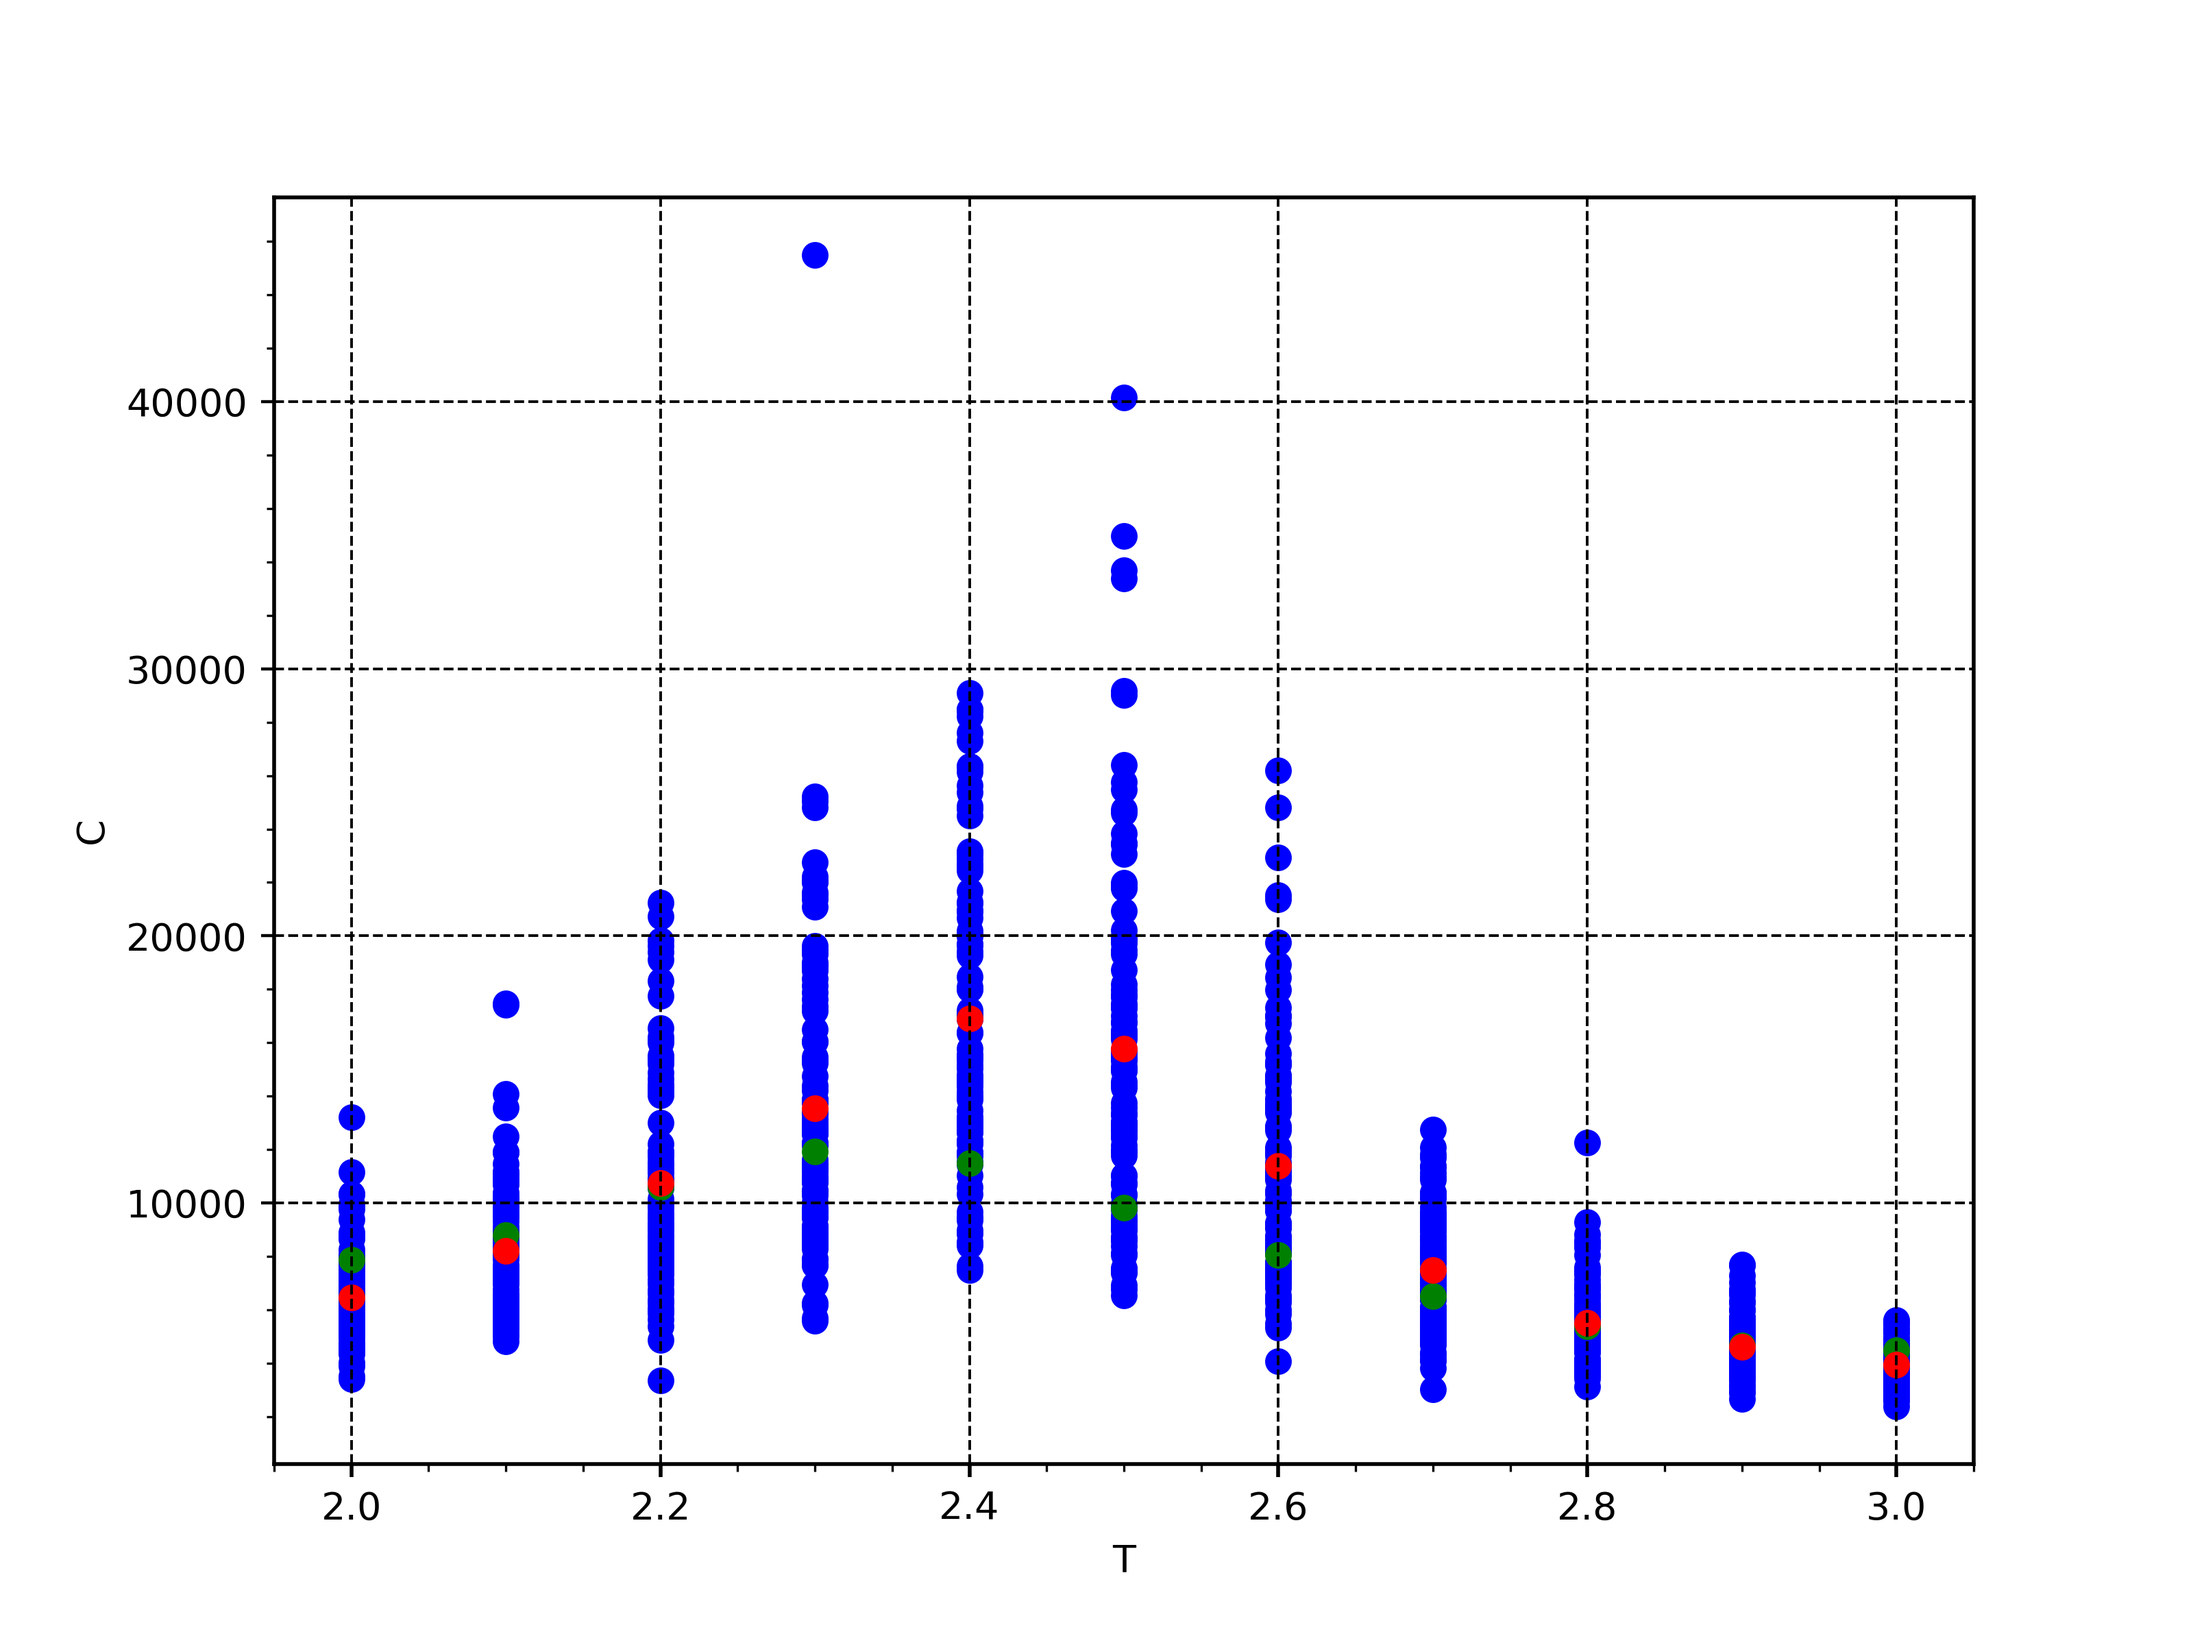
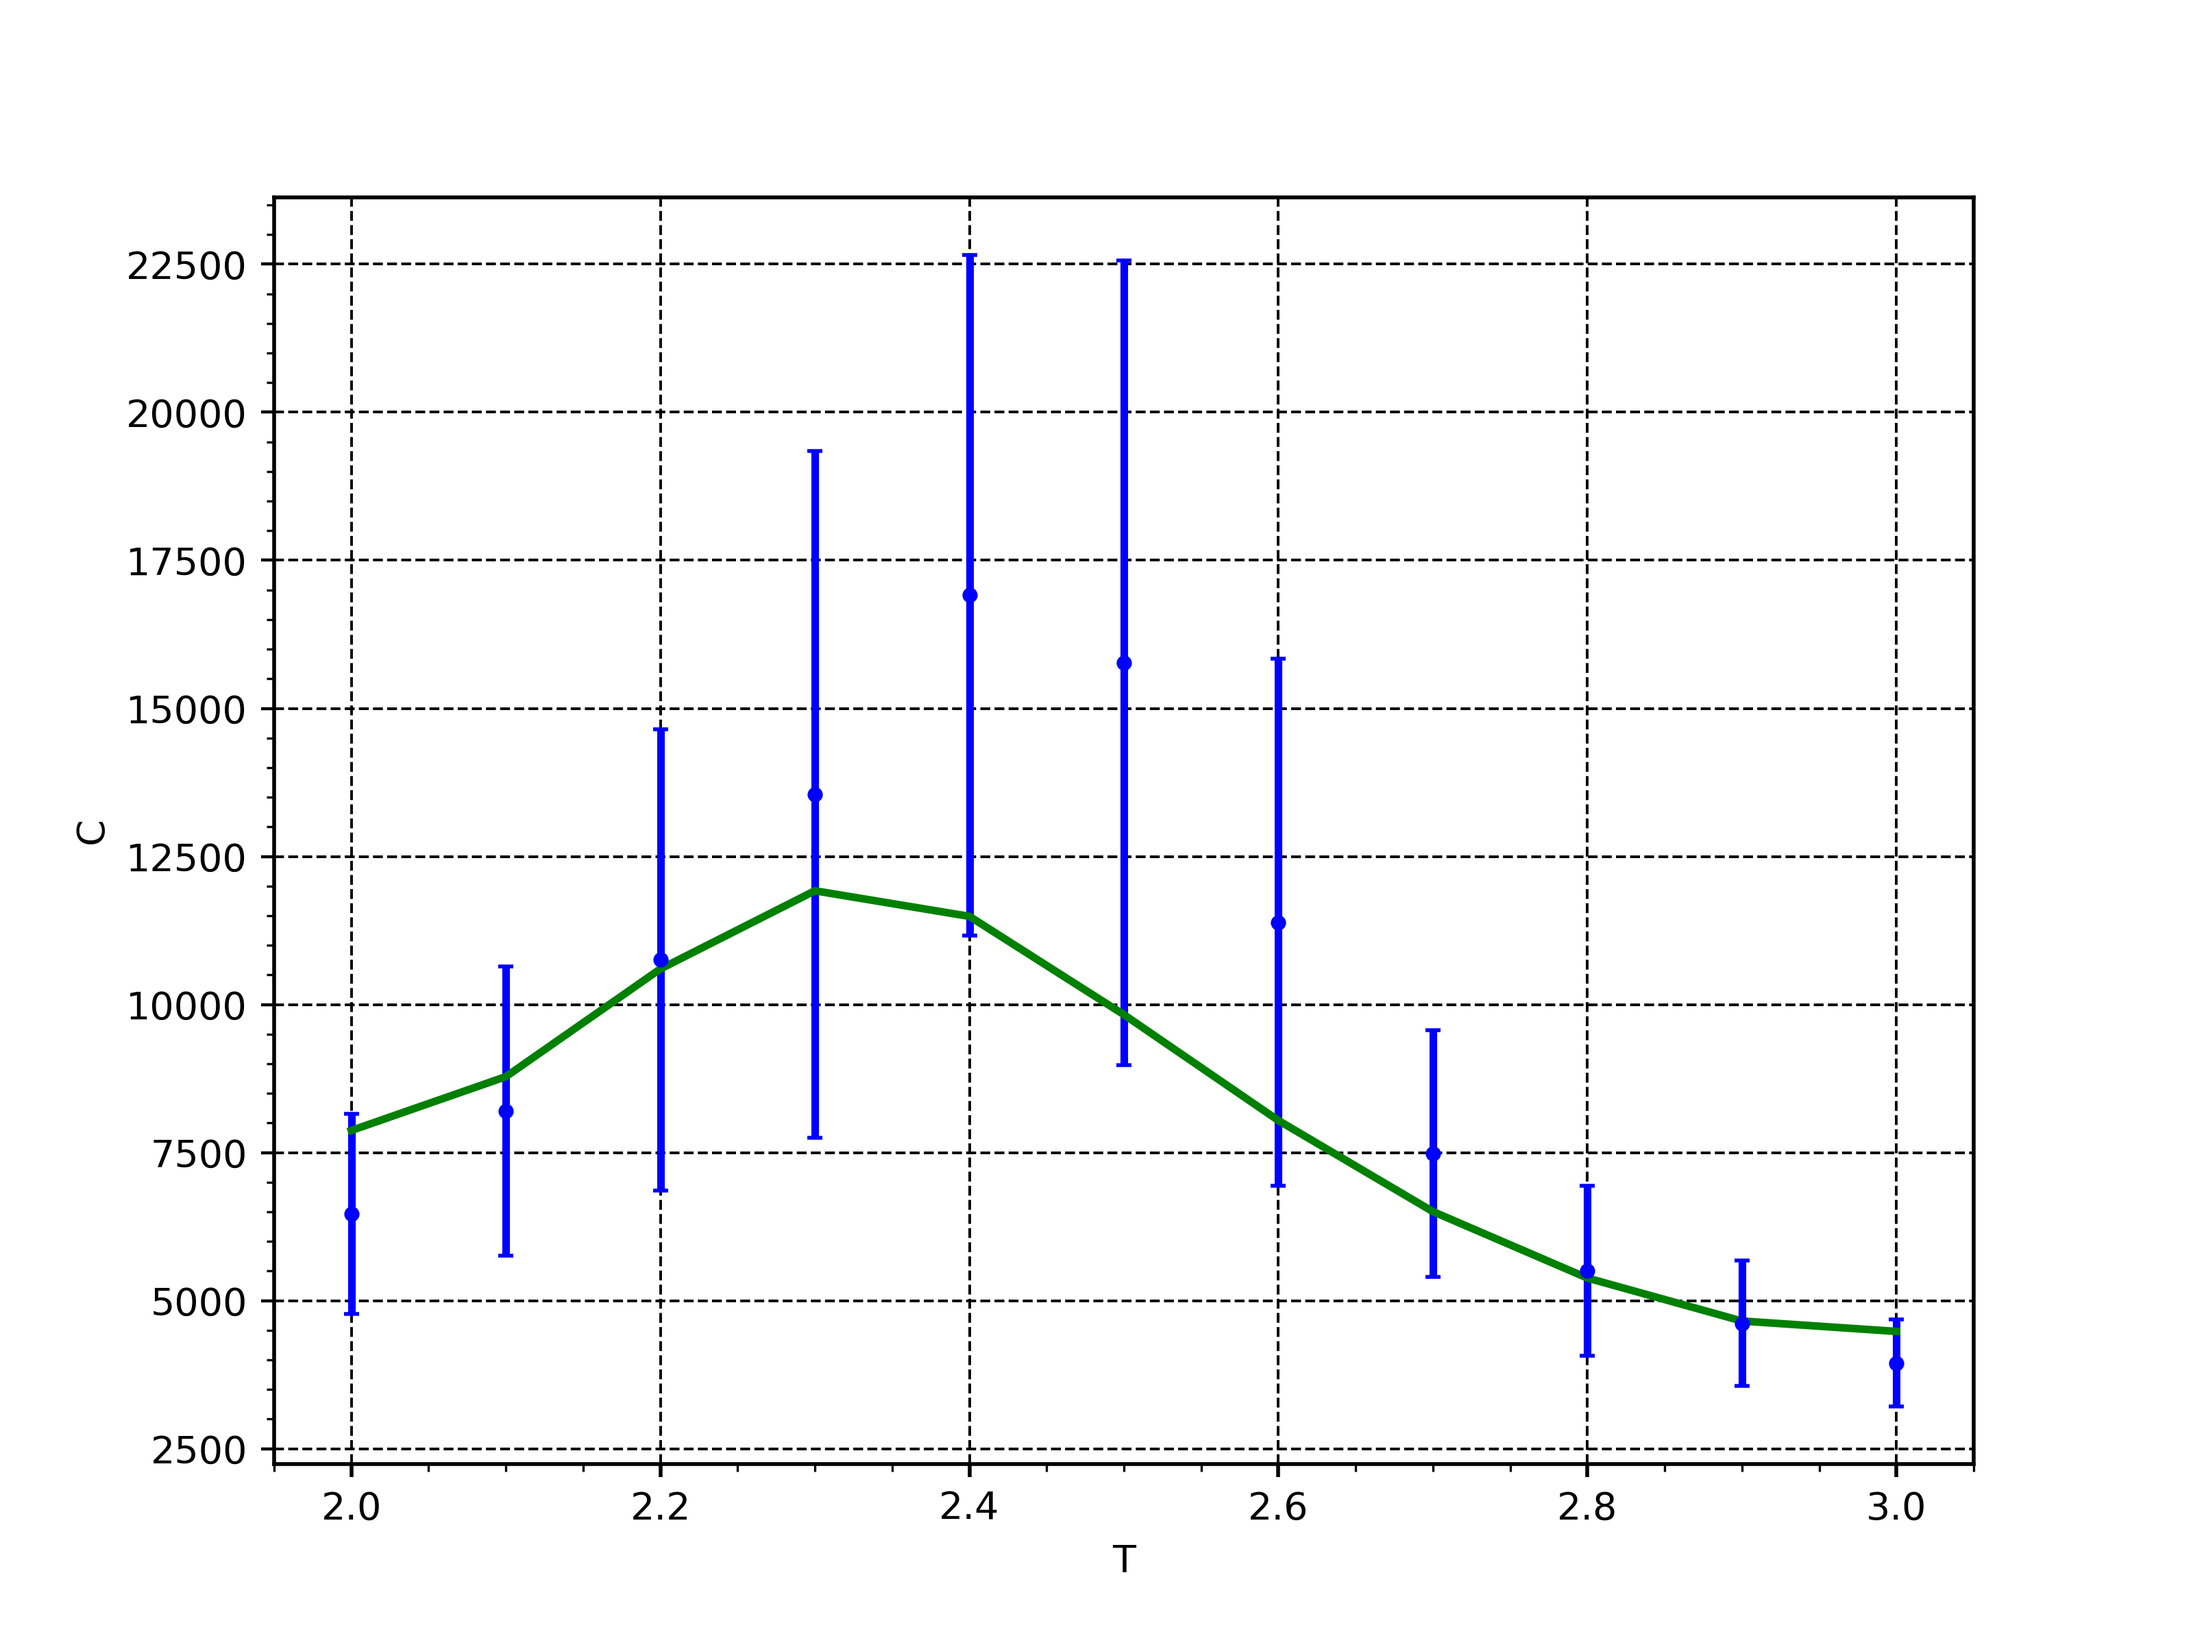
fgsfds

diff --git a/ising/README.md b/ising/README.md
@@ -18,9 +18,11 @@ $ . ./add-ld-gi-pathes.sh             # добавляет пути к $LD_LIBRA
 Функция `ising(temperature, grid_size, ncycles)` находится в модуле `python/ising.py`
 
 ## Результаты
-Зависимость энергии от температуры для системы с линейным размером 100,
-4-х различных сидов генератора случайных чисел. Значение усреднено по 1 миллиону шагов.
-В начальном положении верхняя половина сетки имеет спин +1, а нижняя -1.
+Для всех рассчетов начальная система одна и та же: линейный размер 100,
+верхняя половина системы имеет спин +1, нижняя -1. Во всех расчетах сначала пропускается 200 тысяч шагов, потом
+искомые параметры вычисляются по 1 миллиону шагов.
+
+Зависимость энергии от температуры для 4 различных сидов генератора случайных чисел
 
 <img src="img/e.png">
 
@@ -32,11 +34,14 @@ $ . ./add-ld-gi-pathes.sh             # добавляет пути к $LD_LIBRA
 
 <img src="img/m.png">
 
-Теплоемкость от температуры для той же системы для 100 различных сидов и 1 миллиона шагов. Одна синяя точка соответствует темплоемкости, полученной по дисперсии энергии для одного расчета, красные точки усредняют синие, зеленые получены по производной энергии по температуре.
+Теплоемкость от температуры для 100 различных сидов. Синие значения построены для дисперсии энергии, зеленые - по производной энергии, усредненной по всем расчетам
 
 <img src="img/2-3-c.png">
 
-Обратная магнитная восприимчивость от температуры для тех же систем для 100 различных сидов. Красная прямая проведена по всем точкам, зеленая - по первым десяти. Точки хорошо лежат на прямых, пересечение с осью абсцисс близко к критической температуре.
+Обратная магнитная восприимчивость от температуры для 100 различных сидов. Красная прямая проведена по всем точкам, зеленая - по первым десяти. Точки хорошо лежат на прямых, пересечение с осью абсцисс близко к критической температуре.
 
 <img src="img/3-5-chi.png">
 
+Из графика теплоемкости следует, что критическая температура лежит в интервале (2.2; 2.5).
+Прямые на графике обратной магнитной восприимчивости пересекают ось абсцисс в точках, лежащих
+в этом интервале.
